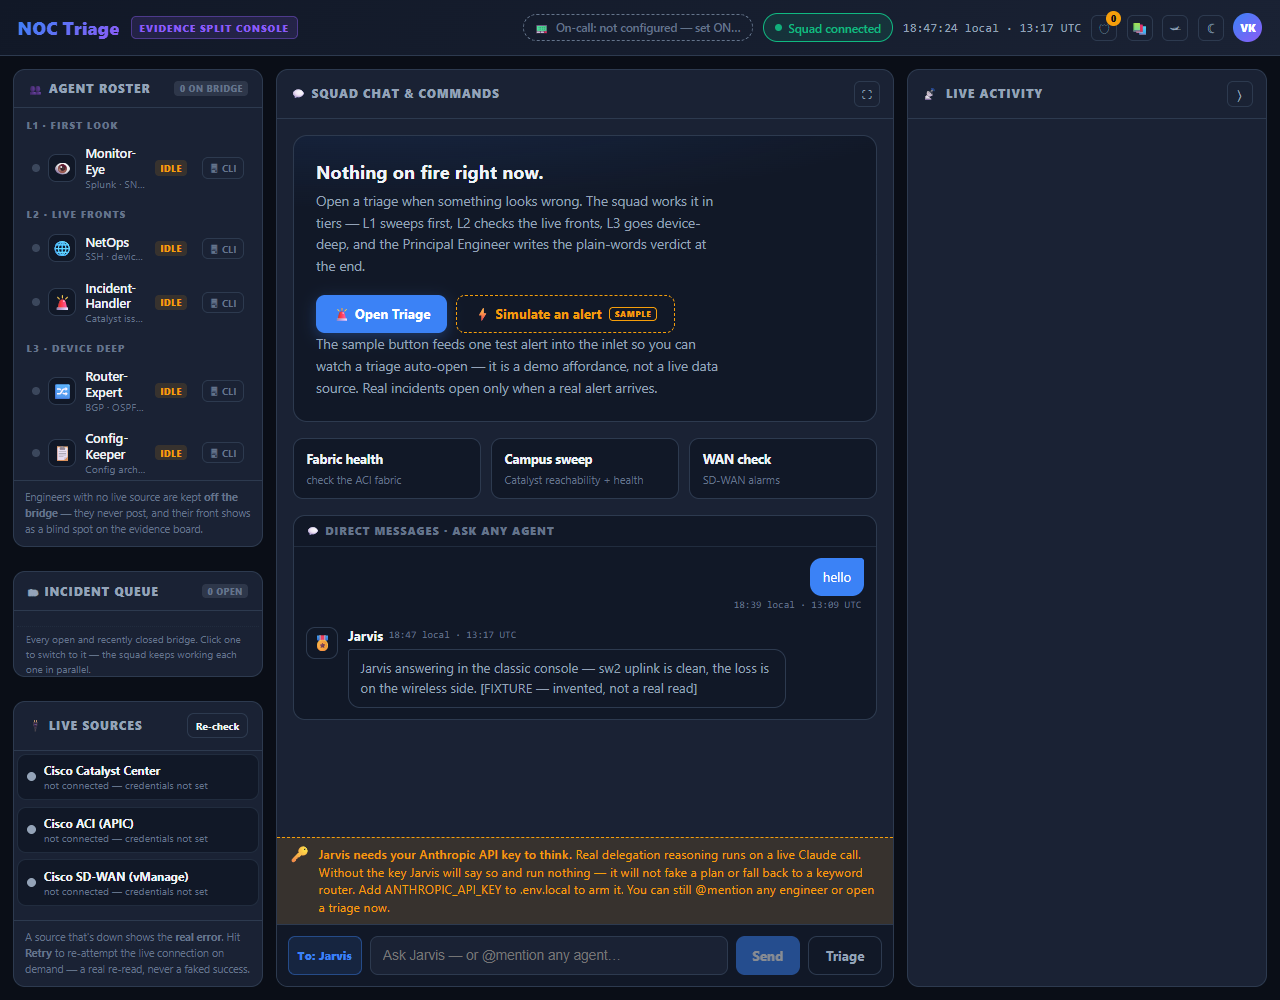
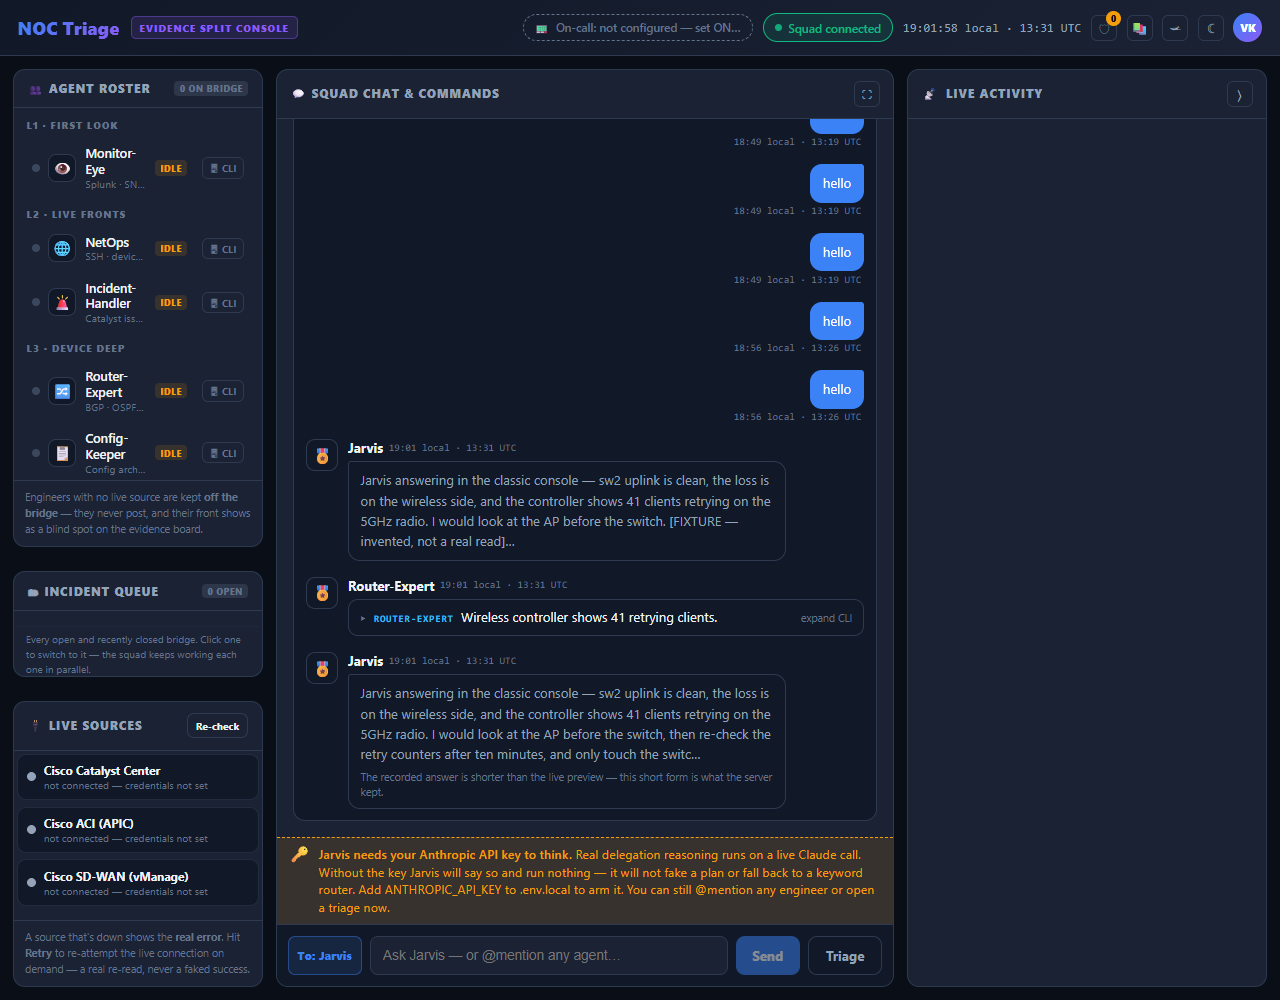
CW-10 UI: settle streamed answers in place, and never let a passing message claim a live preview
Pinned seam from the backend (PR #74): the pieces ride their own WS type
'say_delta', and the recorded answer is capped at 280 characters — so it is
routinely SHORTER than the preview the operator was just reading.

Three changes fall out of that:

- A live wire test caught a real bug. Everything on this socket except the
  recorded answer arrives WITHOUT a messageId, so a finding card landing
  mid-answer claimed the open preview and the rest of the answer started a
  second bubble. The id-less fallback is now narrow: a plain answer with real
  text, exactly one preview open, and that preview already finished. A preview
  still being written is never settled by something that merely arrived.

- The recorded answer is painted into the SLOT the preview held, not appended
  to the bottom. Findings and roster cards keep arriving while an answer
  streams; an answer that jumped to the end is an answer the operator has to go
  looking for. Both DOM changes happen in one turn, so the browser paints once
  and nothing flickers.

- A bubble that visibly shrinks reads as text quietly lost. When the record is
  materially shorter than what was on screen, the bubble says so.

Fixture updated to the pinned wire shape (own message type, 280-char cap) and
gains cw10StreamShort() for the shrinking case.

27 suites green (106 checks in the CW-10 suite). Verified live through the
page's REAL socket handler on :3121: 12 pieces → a finding card lands
[…]

Changed region(s): [[0.2188, 0.093, 0.6875, 0.806], [0.25, 0.155, 0.5625, 0.403], [0.7188, 0.0, 0.75, 0.031]]

diff --git a/public/desk.html b/public/desk.html
@@ -1478,17 +1478,52 @@ function onSayDelta(d){
   return true;
 }
 
-/* The recorded message landed. Drop its preview BEFORE the message is painted,
-   so the operator never sees the two at once. */
+/* The recorded message landed. Its preview goes BEFORE the message is painted,
+   so the two are never on screen together — both DOM changes happen in one
+   turn, so the browser paints once and there is no flicker.
+
+   It leaves a MARKER where the preview stood and returns it. The recorded
+   message is then painted into that slot rather than appended to the bottom:
+   while an answer streams, findings and roster cards keep arriving, and an
+   answer that jumped to the end of the thread would be an answer the operator
+   has to go looking for.
+
+   The recorded message is also allowed to be SHORTER than the preview — the
+   backend caps what it records. The bubble visibly shrinking with no
+   explanation reads like lost text, so how long the preview got is returned
+   with the marker and the caller says so plainly. */
 function saySettle(d){
-  if(!SAY || !SAY.size()) return;
+  if(!SAY || !SAY.size()) return null;
   var id = null;
   try{ id = SAY.finalFor(d); }catch(e){ id = null; }
-  if(!id) return;
+  if(!id) return null;
+  var st = SAY.get(id);
+  var shown = st ? st.text.length : 0;
   SAY.drop(id);
   var n = SAYNODES[id];
   delete SAYNODES[id];
-  if(n && n.parentNode) n.parentNode.removeChild(n);
+  if(!n || !n.parentNode) return null;
+  var mark = document.createComment('say-slot');
+  n.parentNode.replaceChild(mark, n);
+  return { mark: mark, shown: shown };
+}
+
+/* Move whatever the paint just appended into the slot the preview held, and
+   say so when the record is materially shorter than what was on screen. */
+function sayTakeSlot(slot, from, finalLen){
+  if(!slot) return;
+  var chat = $('chat');
+  try{
+    var moved = [].slice.call(chat.children, from);
+    for(var i = 0; i < moved.length; i++) chat.insertBefore(moved[i], slot.mark);
+    if(moved.length && slot.shown - finalLen > 40){
+      var bub = moved[0].querySelector('.bubble');
+      if(bub) bub.insertAdjacentHTML('beforeend',
+        '<span class="cw9-stream-note">The recorded answer is shorter than the live preview — this short form is what the server kept.</span>');
+    }
+  }catch(e){}
+  if(slot.mark.parentNode) slot.mark.parentNode.removeChild(slot.mark);
+  persistWork();
 }
 
 /* A preview whose recorded message never arrived (the server died mid-answer,
@@ -4218,12 +4253,21 @@ function connectWS(){
 }
 function scheduleReconnect(){ wsRetry = Math.min(wsRetry + 1, 6); setTimeout(connectWS, 500 * wsRetry); }
 
+/* CW-10: if this message is the recorded version of an answer we were
+   previewing, the preview goes NOW — before anything is painted — and the
+   recorded message is painted into the slot the preview held. One bubble, in
+   the place the operator was already reading, in a single browser paint. */
 function onChat(d){
+  if(d && d.type === 'outgoing') return;
+  var slot = saySettle(d);
+  if(!slot) return onChatPaint(d);
+  var from = $('chat').children.length;
+  try{ onChatPaint(d); }
+  finally{ sayTakeSlot(slot, from, String((d && d.text) || '').length); }
+}
+
+function onChatPaint(d){
   if(d.type === 'outgoing') return;   // our own asks are already on screen
-  /* CW-10: if this message is the recorded version of an answer we were
-     previewing, the preview goes NOW — before anything is painted — so there
-     is never a moment with two bubbles for one answer. */
-  saySettle(d);
   /* CW-9: an envelope kind paints itself (ask / roster / finding / verdict /
      change). Anything without a kind falls through and renders as before. */
   if(cw9Render(d)){
@@ -4256,7 +4300,11 @@ function onTriage(type, d){
     case 'triage_message':
       /* CW-10: same rule on the bridge path — the recorded message clears the
          preview it belongs to before anything else is painted. */
-      if(!d.operator) saySettle(d);
+      /* CW-10: same rule on the bridge path — the recorded message clears the
+         preview it belongs to and is painted into its slot. */
+      var tslot = d.operator ? null : saySettle(d);
+      var tfrom = $('chat').children.length;
+      try{
       if(d.operator) bubble('me', esc(d.agentName || 'Operator') + ' · ' + clockOf(d.ts), md(d.text||''));
       /* CW-9: a bridge message may carry an envelope kind. It paints itself;
          anything without a kind keeps the old rendering exactly. */
@@ -4265,6 +4313,7 @@ function onTriage(type, d){
                           agent:d.agent, agentName:d.agentName, timestamp:d.ts,
                           triageId:d.triageId, resume:d.resume })){ /* painted */ }
       else if(!(d.tier === 'L4' && d.round === 2)) jvMsg(d.agentName || d.agent || 'Engineer', d.text || '', d.ts);
+      }finally{ sayTakeSlot(tslot, tfrom, String(d.text || '').length); }
       break;
     case 'triage_verdict':
       jvMsg('Jarvis · verdict', d.verdict || 'Verdict posted.', d.ts, jumpBtn('ev-find','See the findings behind it'));

diff --git a/sources/desk.cw10.ui.test.js b/sources/desk.cw10.ui.test.js
@@ -111,9 +111,22 @@ ok('an absurd messageId is refused rather than kept as a key',
   s.accept(delta('m1', 'partial'));
   ok('the final message is matched to its preview by id', s.finalFor({ messageId: 'm1', text: 'whole' }) === 'm1');
   ok('a final for an answer we never previewed matches nothing', s.finalFor({ messageId: 'zz' }) === null);
-  ok('an id-less final with exactly one preview open still clears it',
+  // The id-less fallback is deliberately narrow. A LIVE test caught the bug it
+  // is guarding: a finding card landing mid-answer claimed the preview, and the
+  // rest of the answer opened a second bubble. Everything on this socket except
+  // the recorded answer arrives without a messageId.
+  ok('a still-streaming preview is never claimed by an id-less message',
+    s.finalFor({ text: 'whole' }) === null);
+  s.accept(delta('m1', '', { done: true }));
+  ok('once the last piece has landed, an id-less answer may claim it',
     s.finalFor({ text: 'whole' }) === 'm1');
-  s.accept(delta('m2', 'another'));
+  ok('a finding card can never claim a preview',
+    s.finalFor({ kind: 'finding', finding: { line: 'CRC climbing' } }) === null);
+  ok('a roster or verdict card cannot either',
+    s.finalFor({ kind: 'roster', roster: {} }) === null && s.finalFor({ kind: 'verdict', text: 'x' }) === null);
+  ok('a message with no text at all cannot claim a preview',
+    s.finalFor({ text: '   ' }) === null && s.finalFor({ proposal: {} }) === null);
+  s.accept(delta('m2', 'another', { done: true }));
   ok('with two previews open an id-less final is NOT guessed at', s.finalFor({ text: 'whole' }) === null);
   ok('a delta is never treated as a final', s.finalFor(delta('m1', 'x')) === null);
   ok('dropping a settled preview removes it', s.drop('m1') === true && s.size() === 1 && s.get('m1') === null);
@@ -239,15 +252,35 @@ ok('totals nested under a totals object are found too',
   CW9B.normalizeSpend({ totals: { today: { input_tokens: 9 } } }).today.input === 9);
 
 // ── 8. both pages, one implementation ──────────────────────────────────────
-ok('the desk routes say-delta to the stream', /onSayDelta\(m\.data\)/.test(desk));
-ok('the classic console routes say-delta to the stream', /onSayDeltaClassic\(m\.data\)/.test(idx));
-ok('a delta inside a chat_message is routed too, on both pages',
+// The wire shape pinned with the backend (PR #74): pieces ride their OWN WS
+// message type 'say_delta'; they do NOT arrive inside a chat_message.
+ok('the desk listens for the pinned say_delta message type',
+  /m\.type === 'say_delta'[\s\S]{0,120}onSayDelta\(m\.data\)/.test(desk));
+ok('the classic console listens for it too',
+  /m\.type === 'say_delta'[\s\S]{0,140}onSayDeltaClassic\(m\.data\)/.test(idx));
+ok('a delta smuggled inside a chat_message is still not painted as a message',
   /CW9B\.isDelta\(m\.data\)/.test(desk) && /CW9B\.isDelta\(m\.data\)/.test(idx));
 ok('the desk clears the preview BEFORE painting the recorded message',
-  desk.indexOf('saySettle(d);') < desk.indexOf("if(cw9Render(d)){"));
+  desk.indexOf('var slot = saySettle(d);') < desk.indexOf('onChatPaint(d)'));
 ok('the classic console clears the preview before painting too',
-  /saySettleClassic\(d\)/.test(idx) &&
+  /var sayslot = \(d && d\.type !== 'outgoing'\) \? saySettleClassic\(d\)/.test(idx) &&
   idx.indexOf('saySettleClassic(d)') < idx.indexOf('var outgoing = d.type'));
+// A shrinking bubble must not read as text quietly lost: the server caps what
+// it records at 280 characters, so the recorded answer is routinely SHORTER
+// than the preview the operator was just reading.
+ok('a recorded answer shorter than the preview is explained, on both pages',
+  /shorter than the live preview/.test(desk) && /shorter than the live preview/.test(idx));
+ok('the length actually shown is what the note is measured against',
+  /slot\.shown - finalLen > 40/.test(desk) && /sayslot\.shown - String\(d\.text \|\| ''\)\.length > 40/.test(idx));
+// The preview holds its PLACE in the thread: findings and roster cards keep
+// arriving while an answer streams, and an answer that jumped to the bottom is
+// an answer the operator has to go looking for.
+ok('the recorded answer is painted into the slot the preview held',
+  /createComment\('say-slot'\)/.test(desk) && /createComment\('say-slot'\)/.test(idx) &&
+  /insertBefore\(moved\[i\], slot\.mark\)/.test(desk) &&
+  /sayslot\.mark\.parentNode\.insertBefore\(el, sayslot\.mark\)/.test(idx));
+ok('the slot marker is always cleaned up, even when nothing is painted',
+  /finally\{ sayTakeSlot\(/.test(desk) && /sayDropSlot\(sayslot\);\s*\n\s*return;/.test(idx));
 ok('neither page hand-rolls its own accumulator',
   /CW9B\.createStream\(\)/.test(desk) && /CW9B\.createStream\(\)/.test(idx) &&
   !/\+= *d\.delta/.test(desk) && !/\+= *d\.delta/.test(idx));

diff --git a/test/cw10-say-delta-fixture.js b/test/cw10-say-delta-fixture.js
@@ -4,15 +4,25 @@
  * watch a streamed answer arrive piece by piece and then be replaced by the
  * recorded message — WITHOUT waiting for the backend half of CW-10.
  *
- * It uses the marked dev hooks: window.__cw10DevDelta(msg) for a piece, and the
- * page's own incoming-message path for the final. Nothing in the product calls
- * this file. Every string below is invented FOR THE LOOK ONLY and says so.
+ * THE WIRE SHAPE (pinned with the backend, PR #74): a piece arrives as its own
+ * WebSocket message — {type:'say_delta', data:{kind:'say-delta', messageId,
+ * delta, done}} — NOT inside a chat_message. The recorded answer then arrives
+ * as the ordinary chat_message carrying the same messageId, and it is
+ * authoritative. The backend CAPS what it records at 280 characters, so the
+ * recorded answer is often SHORTER than the preview: the bubble shrinks on
+ * done, and the page says why. The `data` payload is what the dev hook below
+ * takes, so this fixture exercises exactly what the socket delivers.
+ *
+ * It uses the marked dev hooks: window.__cw10DevDelta(payload) for a piece and
+ * window.__cw10DevSay(msg) for the recorded answer. Nothing in the product
+ * calls this file. Every string below is invented FOR THE LOOK ONLY and says so.
  *
  * Use:
  *   cw10Stream()      — the happy path: pieces accumulate, final replaces
  *   cw10StreamLossy() — pieces go missing / arrive out of order; final still wins
  *   cw10StreamXss()   — hostile text in the pieces: printed, never executed
  *   cw10StreamOrphan()— pieces, done, and NO final (the honest stale note)
+ *   cw10StreamShort() — the recorded answer is much shorter than the preview
  *   cw10Spend()       — draw the Spend panel from a fixture (desk only)
  *   cw10SpendEmpty()  — the honest empty state
  */
@@ -29,6 +39,13 @@ function cw10Chunks(text, size) {
   return out;
 }
 
+/* What the server actually records: the same answer, capped at 280 characters.
+   The preview is therefore usually the longer of the two. */
+var CW10_SAY_CAP = 280;
+function cw10Capped(text) {
+  return text.length <= CW10_SAY_CAP ? text : text.slice(0, CW10_SAY_CAP - 1) + '…';
+}
+
 function cw10Final(id, text) {
   var msg = {
     role: 'jarvis', agent: 'jarvis', agentName: 'Jarvis',
@@ -43,7 +60,9 @@ function cw10Play(id, pieces, opts) {
   var i = 0;
   (function step() {
     if (i >= pieces.length) {
-      if (!opts.noFinal) setTimeout(function () { cw10Final(id, opts.finalText || CW10_ANSWER); }, 700);
+      if (!opts.noFinal) setTimeout(function () {
+        cw10Final(id, cw10Capped(opts.finalText || CW10_ANSWER));
+      }, 700);
       return;
     }
     var p = pieces[i++];
@@ -88,6 +107,16 @@ function cw10StreamOrphan() {
   var id = 'fx-orphan-' + Date.now().toString(36);
   cw10Play(id, cw10Chunks(CW10_ANSWER, 20).map(function (c, n) { return { delta: c, seq: n }; }),
     { noFinal: true });
+}
+
+/* 5 — the recorded answer is much shorter than what streamed (the 280-char
+   cap). The bubble shrinks on done, and the page must say why rather than
+   letting text look lost. */
+function cw10StreamShort() {
+  var id = 'fx-short-' + Date.now().toString(36);
+  var long = CW10_ANSWER + ' ' + CW10_ANSWER;
+  cw10Play(id, cw10Chunks(long, 16).map(function (c, n) { return { delta: c, seq: n }; }),
+    { gap: 40, finalText: long });
 }
 
 /* ---------- Spend panel (desk only) ---------- */

diff --git a/public/index.html b/public/index.html
@@ -3288,14 +3288,27 @@ function onSayDeltaClassic(d){
   }catch(e){ /* a preview must never break the thread */ }
   return true;
 }
-/* The recorded answer landed — its preview goes before anything is painted. */
+/* The recorded answer landed — its preview goes before anything is painted, in
+   the SAME turn, so the browser paints once and nothing flickers. A marker is
+   left where the preview stood so the recorded message takes its place in the
+   thread instead of jumping to the bottom, and how long the preview got is
+   returned so a shorter recorded answer can be explained rather than just
+   silently shrinking. */
 function saySettleClassic(d){
-  if(!SAYC || !SAYC.size()) return;
+  if(!SAYC || !SAYC.size()) return null;
   var id = null; try{ id = SAYC.finalFor(d); }catch(e){ id = null; }
-  if(!id) return;
+  if(!id) return null;
+  var st = SAYC.get(id);
+  var shown = st ? st.text.length : 0;
   SAYC.drop(id);
   var n = SAYC_NODES[id]; delete SAYC_NODES[id];
-  if(n && n.parentNode) n.parentNode.removeChild(n);
+  if(!n || !n.parentNode) return null;
+  var mark = document.createComment('say-slot');
+  n.parentNode.replaceChild(mark, n);
+  return { mark: mark, shown: shown };
+}
+function sayDropSlot(slot){
+  if(slot && slot.mark && slot.mark.parentNode) slot.mark.parentNode.removeChild(slot.mark);
 }
 /* A preview whose recorded message never came. Never deleted, never left
    pretending to be live. */
@@ -3322,7 +3335,7 @@ function renderChat(d){
   var host = $('chatStream'); if(!host) return;
   /* CW-10: the recorded version of an answer we were previewing clears that
      preview first — one answer, one bubble, whatever the network did. */
-  if(d && d.type !== 'outgoing') saySettleClassic(d);
+  var sayslot = (d && d.type !== 'outgoing') ? saySettleClassic(d) : null;
   var empty = host.querySelector('.chat-empty'); if(empty) empty.remove();
   var outgoing = d.type === 'outgoing';
   var id = d.agent;
@@ -3360,6 +3373,7 @@ function renderChat(d){
     } else if(!hasText){
       /* no envelope and no text at all — nothing to paint, so paint nothing
          rather than an empty bubble. */
+      sayDropSlot(sayslot);
       return;
     } else {
       bodyHtml = '<div class="msg-text">'+mdToHtml(d.text)+'</div>';
@@ -3375,7 +3389,18 @@ function renderChat(d){
   // scrolling up to read history isn't yanked away).
   var sc0 = findScroller(host);
   var nearBottom = !sc0 || (sc0.scrollHeight - sc0.scrollTop - sc0.clientHeight < 160);
-  host.appendChild(el);
+  /* CW-10: a recorded answer goes back where its preview was — and says so when
+     the record is materially shorter than what was on screen, so a bubble that
+     shrinks never reads as text quietly lost. */
+  if(sayslot && sayslot.mark.parentNode){
+    if(sayslot.shown - String(d.text || '').length > 40){
+      var m = el.querySelector('.msg-text');
+      if(m) m.insertAdjacentHTML('beforeend',
+        '<span class="cw9-stream-note">The recorded answer is shorter than the live preview — this short form is what the server kept.</span>');
+    }
+    sayslot.mark.parentNode.insertBefore(el, sayslot.mark);
+    sayDropSlot(sayslot);
+  } else host.appendChild(el);
   if(outgoing || nearBottom){ var sc = findScroller(host) || host; sc.scrollTop = sc.scrollHeight; }
 }
 

diff --git a/public/cw9-bridge.js b/public/cw9-bridge.js
@@ -424,16 +424,29 @@
       },
 
       /* Which preview (if any) this ORDINARY message replaces.
-         Matched by messageId. When the final carries no id at all and exactly
-         one preview is open, that preview is the one — refusing to match there
-         would leave a stale preview AND the real answer side by side, which is
-         the duplicate bubble we are trying to avoid. With two or more open we
-         do not guess; the page ages the leftovers out honestly. */
+         The pinned seam puts the same messageId on the recorded answer, so
+         that is the match that matters.
+
+         The id-less fallback exists only so a recorded answer that arrives
+         WITHOUT an id cannot leave a stale preview beside it. It is
+         deliberately narrow, because everything else on this socket also
+         arrives without a messageId: a finding card, a roster, a system
+         line. A live test caught exactly that — a finding landing mid-answer
+         claimed the preview, and the rest of the answer started a second
+         bubble. So a message may only claim a preview when
+           - it is a plain answer (no envelope `kind`) with real text, AND
+           - exactly one preview is open, AND
+           - that preview has already had its LAST piece.
+         A preview that is still being written is never settled by something
+         that merely happened to arrive. */
       finalFor: function (d) {
         if (!d || typeof d !== 'object' || isDelta(d)) return null;
         var id = streamId(d);
         if (id) return (id in live) ? id : null;
-        return ids.length === 1 ? ids[0] : null;
+        if (d.kind) return null;
+        if (!(typeof d.text === 'string' && d.text.trim())) return null;
+        if (ids.length !== 1) return null;
+        return live[ids[0]].done ? ids[0] : null;
       },
 
       /* Previews with no final message after `maxAgeMs`. The page turns these
